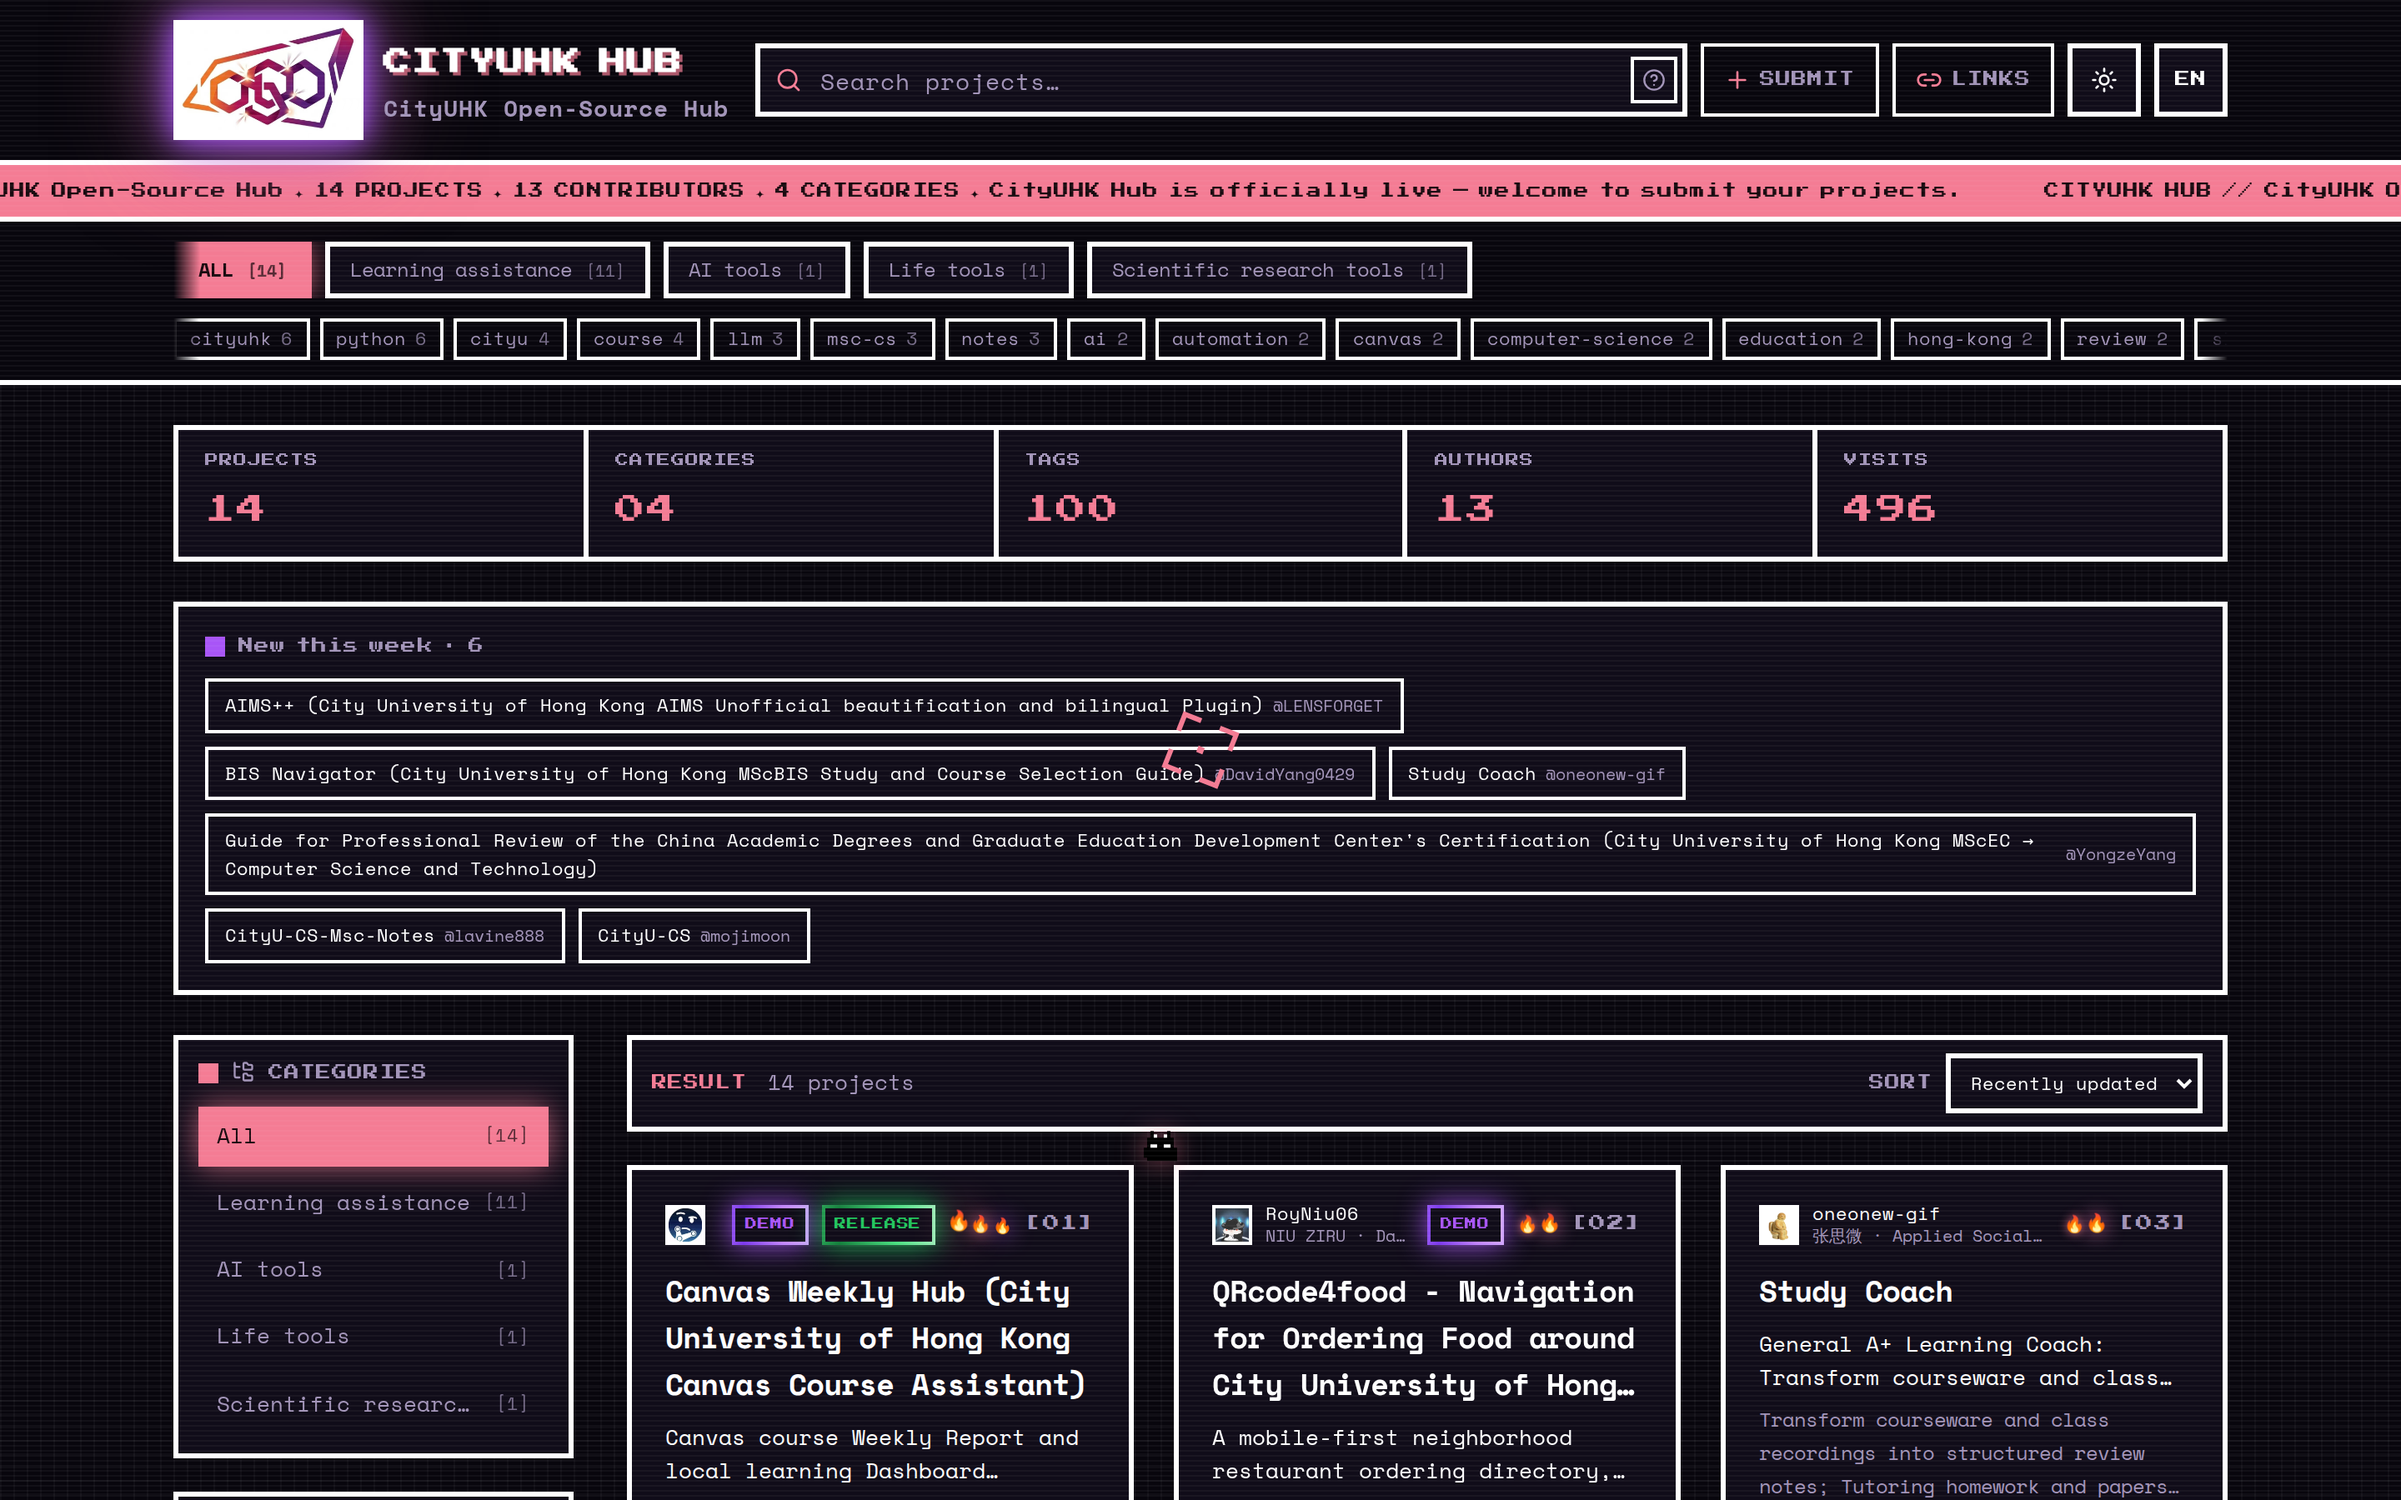
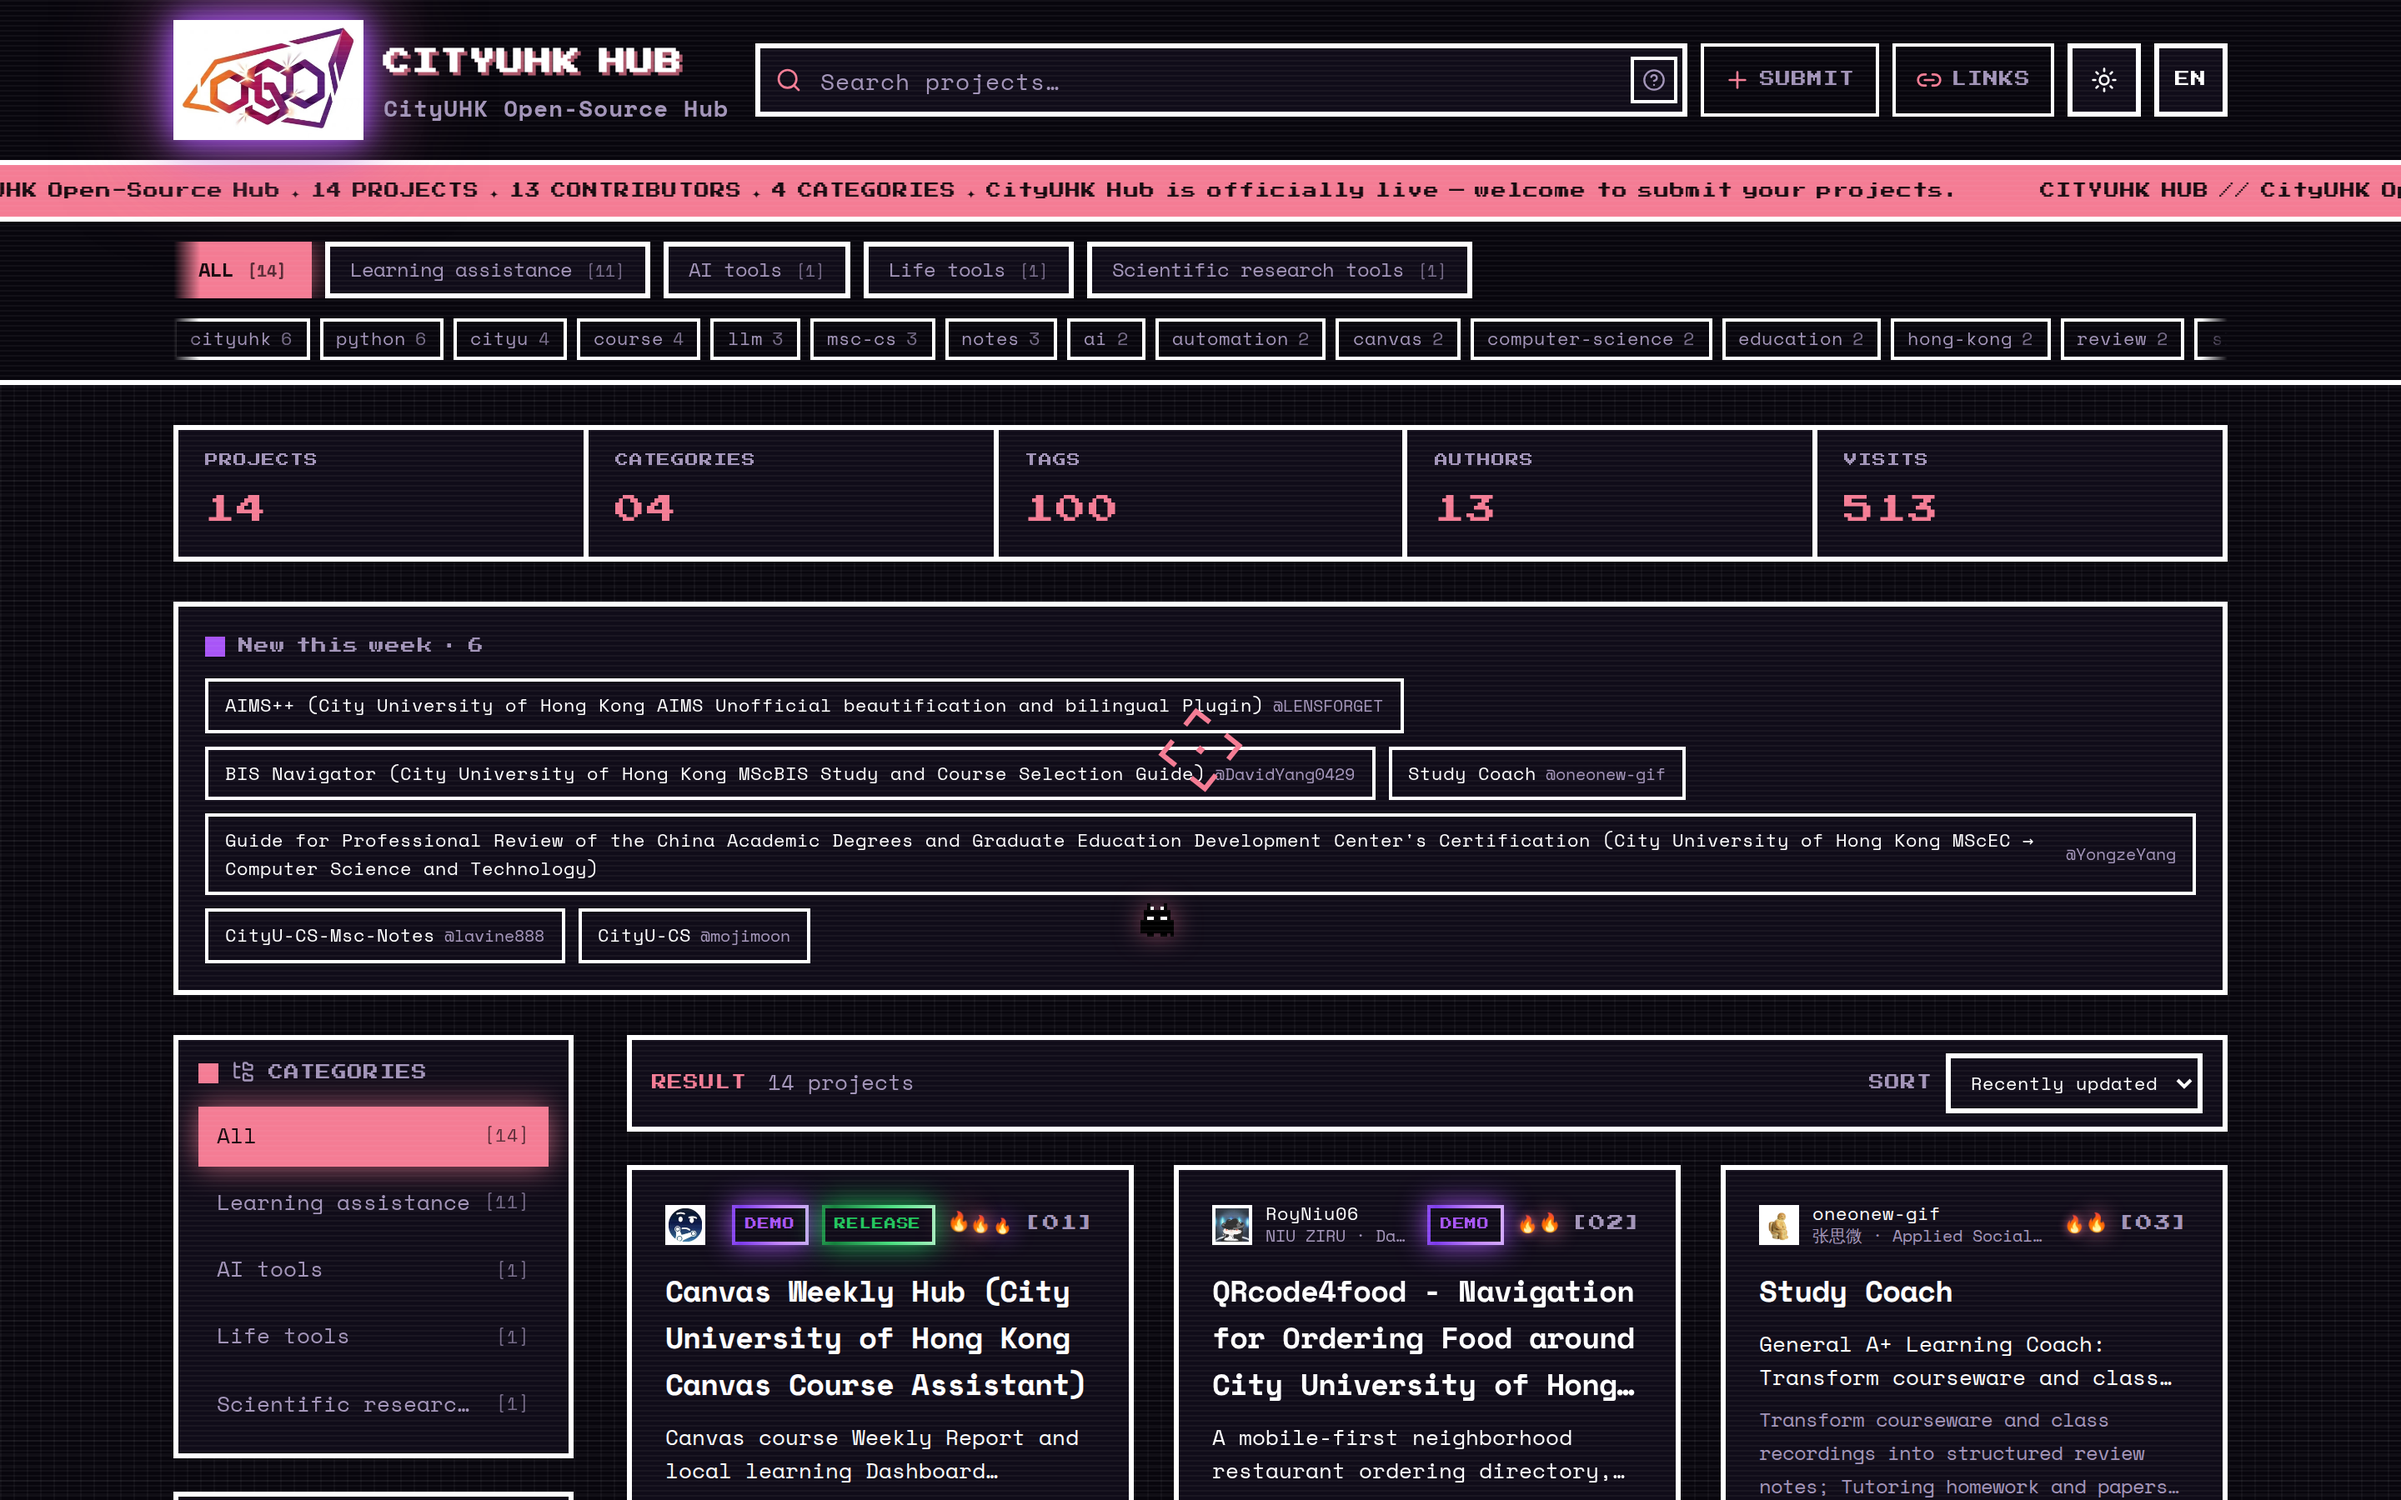
chore(screenshot): 更新站点首页截图 [skip-shot]

diff --git a/README.md b/README.md
@@ -22,7 +22,7 @@
 <!-- screenshot:start -->
 <img src="web/public/screenshot.png" alt="CityUHK Hub 首页截图 / homepage screenshot" width="920" />
 
-<sub>截图时间 / 截圖時間 / captured at: 2026-10-05 00:55 (UTC+8) · 截图者 / 截圖者 / by: @github-actions[bot]</sub>
+<sub>截图时间 / 截圖時間 / captured at: 2026-10-05 15:41 (UTC+8) · 截图者 / 截圖者 / by: @github-actions[bot]</sub>
 
 **站点一览 · Homepage at a glance**
 <!-- screenshot:end -->
